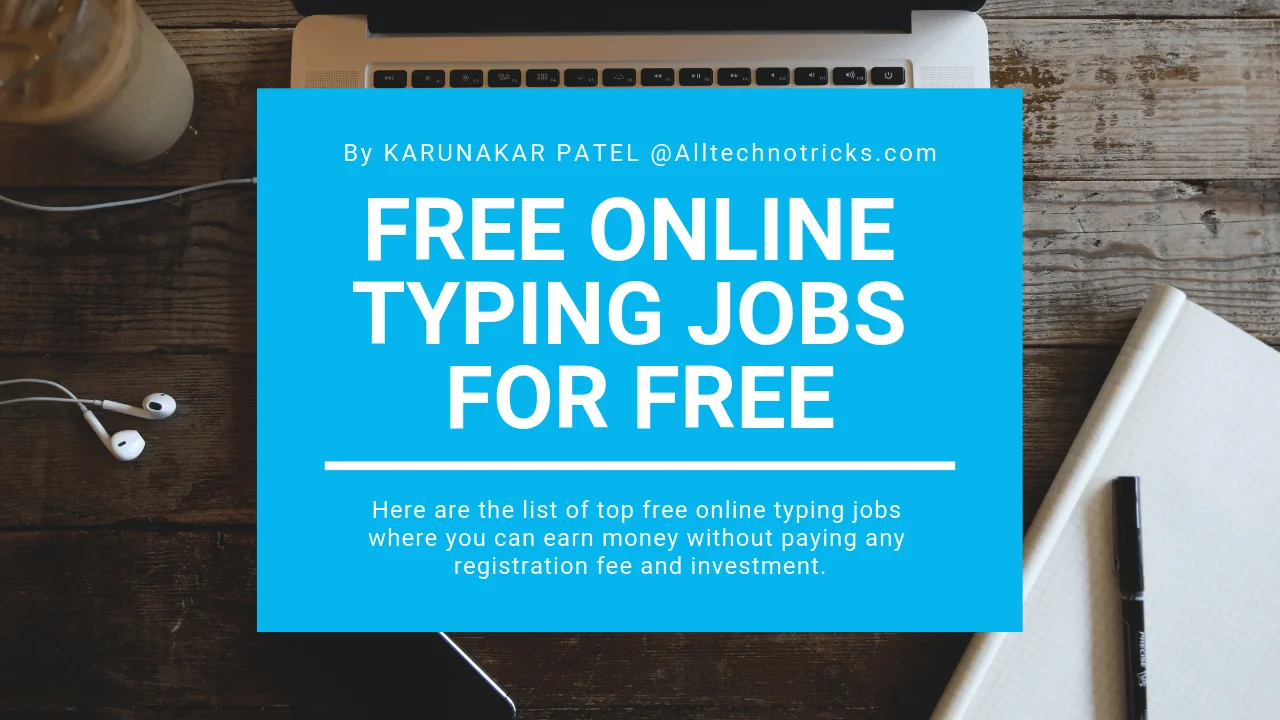
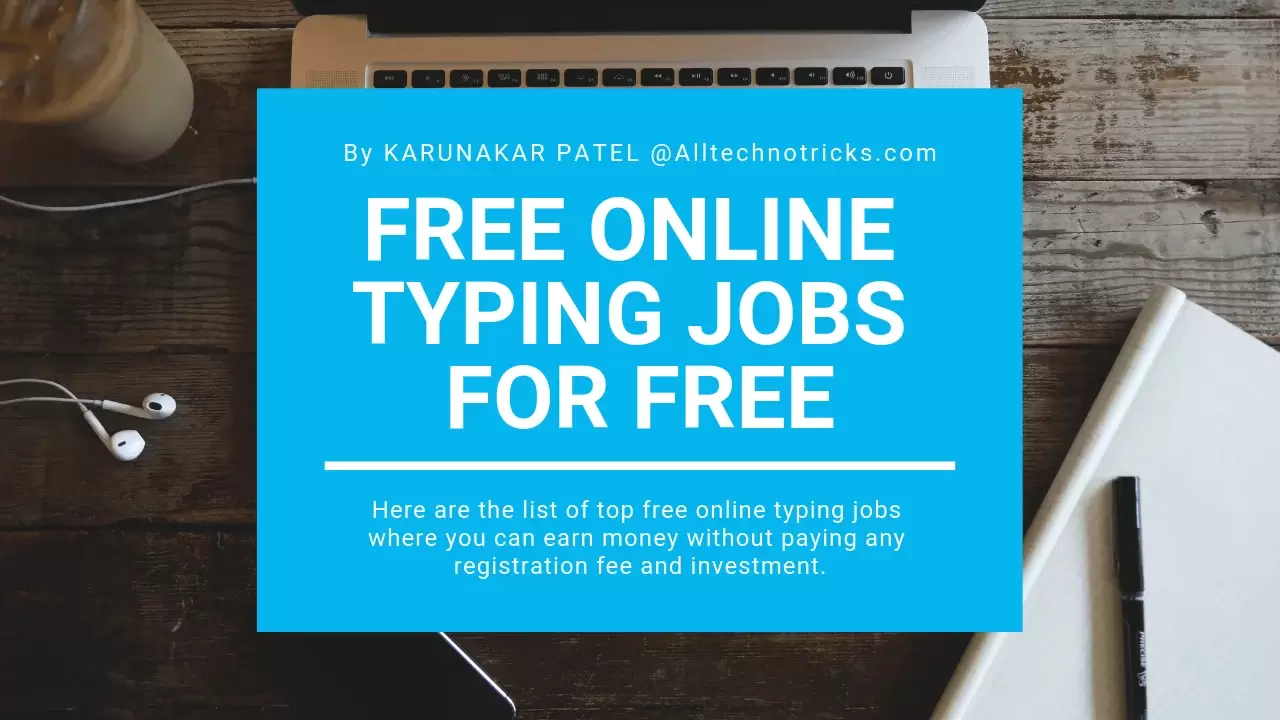
done epic images

diff --git a/earn-money-online.html b/earn-money-online.html
@@ -32,7 +32,7 @@
 		}
 		window.dataLayer = window.dataLayer || [], gtag("js", new Date), gtag("config", "UA-115951250-1")
 	</script>
-	<script type="application/ld+json"> { "@context": "http://schema.org", "@type": "Article", "mainEntityOfPage": { "@type": "WebPage", "@id": "https://www.alltechnotricks.com/earn-money-online.html" }, "headline": "Top Best Ways To Earn Money Online Without Investment and Registration Fee.", "image": [ "https://www.alltechnotricks.com/images/earn-money-online.jpeg" ], "datePublished": "2018-07-05", "dateModified": "2019-02-07", "author": { "@type": "Person", "name": "Karunakar Patel" }, "publisher": { "@type": "Organization", "name": "Techno Tricks", "logo": { "@type": "ImageObject", "url": "https://www.alltechnotricks.com/fevicon.ico" } }, "description": "Best ways to earn money online without investment and registration fee by just working from home as a part-time job. These are 100% proven legit online jobs which is useful for students, housewives & those who start earning money online by working from home. Here may include making money online from typing job, online surveys, PTC sites and many more." } </script>
+	<script type="application/ld+json"> { "@context": "http://schema.org", "@type": "Article", "mainEntityOfPage": { "@type": "WebPage", "@id": "https://www.alltechnotricks.com/earn-money-online.html" }, "headline": "Top Best Ways To Earn Money Online Without Investment and Registration Fee.", "image": [ "https://www.alltechnotricks.com/uploads/earn-money-online.webp" ], "datePublished": "2018-07-05", "dateModified": "2019-02-07", "author": { "@type": "Person", "name": "Karunakar Patel" }, "publisher": { "@type": "Organization", "name": "Techno Tricks", "logo": { "@type": "ImageObject", "url": "https://www.alltechnotricks.com/fevicon.ico" } }, "description": "Best ways to earn money online without investment and registration fee by just working from home as a part-time job. These are 100% proven legit online jobs which is useful for students, housewives & those who start earning money online by working from home. Here may include making money online from typing job, online surveys, PTC sites and many more." } </script>
 	<style>
 		body {
 			padding: 0px;
@@ -118,11 +118,12 @@
 			font-family: 'Rubik', 'Lato', "Lucida Grande", "Lucida Sans Unicode", Tahoma, Sans-Serif;
 		}
 
-		.header_image{
+		.header_image {
 			width: 100%;
 			height: auto;
-			max-width: 999px;
-			max-height: 999px;
+			max-width: 900px; max-height: auto;
+			margin: auto;
+			display: flex; flex-grow: 1; align-content: center;
 			border-radius: 8px;
 		}
 

diff --git a/free-online-typing-jobs.html b/free-online-typing-jobs.html
@@ -32,7 +32,7 @@
 		}
 		window.dataLayer = window.dataLayer || [], gtag("js", new Date), gtag("config", "UA-115951250-1")
 	</script>
-	<script type="application/ld+json"> { "@context": "http://schema.org", "@type": "Article", "mainEntityOfPage": { "@type": "WebPage", "@id": "https://www.alltechnotricks.com/free-online-typing-jobs.html" }, "headline": "Free Online Typing Jobs Without Registration And Investment.", "image": [ "https://www.alltechnotricks.com/images/free-online-typing-jobs.jpg" ], "datePublished": "2018-07-06", "dateModified": "2019-02-07", "author": { "@type": "Person", "name": "Karunakar Patel" }, "publisher": { "@type": "Organization", "name": "Techno Tricks", "logo": { "@type": "ImageObject", "url": "https://www.alltechnotricks.com/fevicon.ico" } }, "description": "Best ways to earn money online by free online typing jobs with no investment and no registration fee. These typing jobs are 100% legit & receive daily payments through simple online data entry typing jobs by just working from home. These typing jobs are free to register & signup where we can start making money online by free online typing jobs." } </script>
+	<script type="application/ld+json"> { "@context": "http://schema.org", "@type": "Article", "mainEntityOfPage": { "@type": "WebPage", "@id": "https://www.alltechnotricks.com/free-online-typing-jobs.html" }, "headline": "Free Online Typing Jobs Without Registration And Investment.", "image": [ "https://www.alltechnotricks.com/uploads/free-online-typing-jobs.webp" ], "datePublished": "2018-07-06", "dateModified": "2019-02-07", "author": { "@type": "Person", "name": "Karunakar Patel" }, "publisher": { "@type": "Organization", "name": "Techno Tricks", "logo": { "@type": "ImageObject", "url": "https://www.alltechnotricks.com/fevicon.ico" } }, "description": "Best ways to earn money online by free online typing jobs with no investment and no registration fee. These typing jobs are 100% legit & receive daily payments through simple online data entry typing jobs by just working from home. These typing jobs are free to register & signup where we can start making money online by free online typing jobs." } </script>
 	<style>
 
 		body {
@@ -122,7 +122,9 @@
 		.header_image {
 			width: 100%;
 			height: auto;
-			max-width: 100%; max-height: auto;
+			max-width: 900px; max-height: auto;
+			margin: auto;
+			display: flex; flex-grow: 1; align-content: center;
 			border-radius: 8px;
 		}
 
